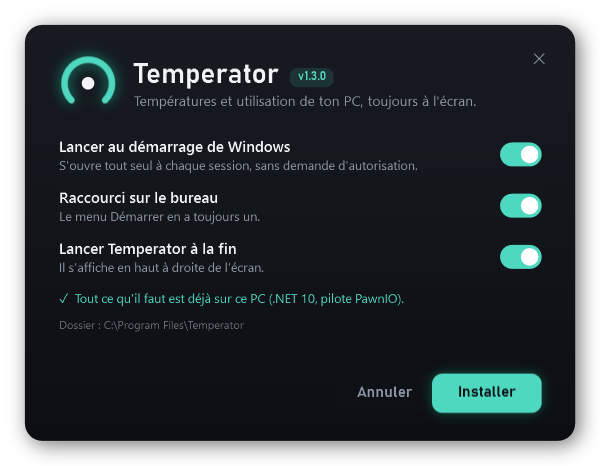
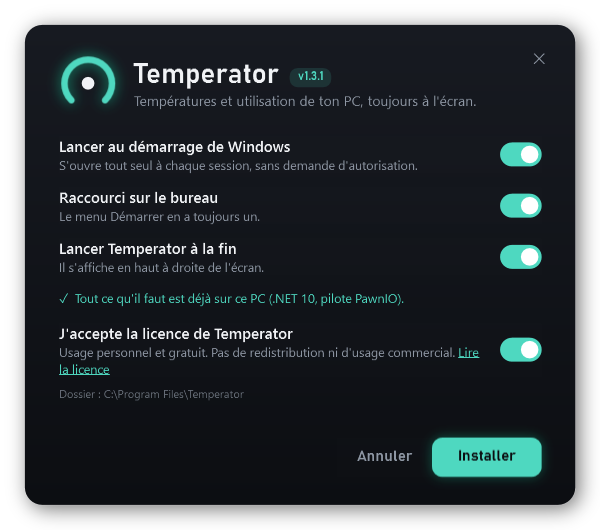
Ask for license acceptance in the installer (1.3.1)
- Installer: "J'accepte la licence" switch; Installer stays disabled until
  it is on; "Lire la licence" shows the full text inside the installer
  (embedded LICENSE, reflowed for display); silent install implies acceptance
- Widget menu: "Licence et conditions d'utilisation" opens the installed
  LICENSE (or the one on GitHub)
- README and installer screenshot updated; version 1.3.1

diff --git a/src/Setup/SetupWindow.xaml b/src/Setup/SetupWindow.xaml
@@ -44,7 +44,26 @@
             <ControlTemplate.Triggers>
               <Trigger Property="IsMouseOver" Value="True"><Setter TargetName="B" Property="Opacity" Value="0.88"/></Trigger>
               <Trigger Property="IsPressed" Value="True"><Setter TargetName="B" Property="RenderTransform"><Setter.Value><ScaleTransform ScaleX="0.96" ScaleY="0.96"/></Setter.Value></Setter></Trigger>
+              <Trigger Property="IsEnabled" Value="False"><Setter TargetName="B" Property="Opacity" Value="0.35"/><Setter Property="Cursor" Value="Arrow"/></Trigger>
             </ControlTemplate.Triggers>
+          </ControlTemplate>
+        </Setter.Value>
+      </Setter>
+    </Style>
+
+    <!-- barre de défilement fine (texte de la licence) -->
+    <Style x:Key="ThinThumb" TargetType="Thumb">
+      <Setter Property="OverridesDefaultStyle" Value="True"/>
+      <Setter Property="Template"><Setter.Value><ControlTemplate TargetType="Thumb"><Border CornerRadius="3" Background="#40F1F3F6"/></ControlTemplate></Setter.Value></Setter>
+    </Style>
+    <Style TargetType="ScrollBar">
+      <Setter Property="OverridesDefaultStyle" Value="True"/>
+      <Setter Property="Width" Value="6"/>
+      <Setter Property="MinWidth" Value="6"/>
+      <Setter Property="Template">
+        <Setter.Value>
+          <ControlTemplate TargetType="ScrollBar">
+            <Track x:Name="PART_Track" IsDirectionReversed="True"><Track.Thumb><Thumb Style="{StaticResource ThinThumb}"/></Track.Thumb></Track>
           </ControlTemplate>
         </Setter.Value>
       </Setter>
@@ -150,8 +169,31 @@
             </DockPanel>
           </StackPanel>
           <TextBlock x:Name="AllGood" Text="✓  Tout ce qu'il faut est déjà sur ce PC (.NET 10, pilote PawnIO)." FontSize="12.5" Foreground="#4ED8C0" Margin="0,0,0,6"/>
+          <DockPanel x:Name="RowLicense" Style="{StaticResource Row}" Cursor="Hand" Margin="0,10,0,6">
+            <CheckBox x:Name="OptLicense" DockPanel.Dock="Right" Style="{StaticResource Toggle}" IsChecked="False" VerticalAlignment="Center"/>
+            <StackPanel Margin="0,0,16,0">
+              <TextBlock Style="{StaticResource Title}" Text="J'accepte la licence de Temperator"/>
+              <TextBlock Style="{StaticResource Sub}">
+                <Run Text="Usage personnel et gratuit. Pas de redistribution ni d'usage commercial."/>
+                <Run x:Name="LicenseLink" Text="Lire la licence" Foreground="#4ED8C0" TextDecorations="Underline" Cursor="Hand"/>
+              </TextBlock>
+            </StackPanel>
+          </DockPanel>
           <TextBlock x:Name="PathText" FontSize="11.5" Foreground="#8E97A4" Opacity="0.7" Margin="0,4,0,0"/>
         </StackPanel>
+      </DockPanel>
+
+      <!-- écran : texte de la licence -->
+      <DockPanel x:Name="PageLicense" Grid.Row="1" Visibility="Collapsed">
+        <DockPanel DockPanel.Dock="Bottom" LastChildFill="False" Margin="0,14,0,0">
+          <Button x:Name="BtnAccept" DockPanel.Dock="Right" Style="{StaticResource Primary}" Content="J'accepte"/>
+          <Button x:Name="BtnBack" DockPanel.Dock="Right" Style="{StaticResource Ghost}" Content="Retour"/>
+        </DockPanel>
+        <Border CornerRadius="10" Background="#0CFFFFFF" BorderBrush="#14FFFFFF" BorderThickness="1" Padding="14,10,6,10">
+          <ScrollViewer VerticalScrollBarVisibility="Auto" HorizontalScrollBarVisibility="Disabled" Padding="0,0,10,0">
+            <TextBlock x:Name="LicenseText" FontSize="12" Foreground="#C9CFD8" TextWrapping="Wrap"/>
+          </ScrollViewer>
+        </Border>
       </DockPanel>
 
       <!-- écran : progression -->

diff --git a/src/Setup/SetupWindow.xaml.cs b/src/Setup/SetupWindow.xaml.cs
@@ -1,5 +1,6 @@
 using System;
 using System.IO;
+using System.Reflection;
 using System.Threading.Tasks;
 using System.Windows;
 using System.Windows.Controls;
@@ -45,6 +46,16 @@ namespace TemperatorSetup
                 BtnGoUninstall.Visibility = Visibility.Visible;
             }
 
+            // la licence doit être acceptée avant d'installer
+            LicenseText.Text = ReadLicense();
+            BtnInstall.IsEnabled = false;
+            OptLicense.Checked += (_, _) => BtnInstall.IsEnabled = true;
+            OptLicense.Unchecked += (_, _) => BtnInstall.IsEnabled = false;
+            LicenseLink.MouseLeftButtonUp += (_, e) => { e.Handled = true; ShowPage(PageLicense); };   // le lien a son propre clic
+            RowLicense.MouseLeftButtonUp += (_, _) => OptLicense.IsChecked = OptLicense.IsChecked != true;
+            BtnBack.Click += (_, _) => ShowPage(PageOptions);
+            BtnAccept.Click += (_, _) => { OptLicense.IsChecked = true; ShowPage(PageOptions); };
+
             // un clic n'importe où sur la ligne bascule l'interrupteur
             RowAuto.MouseLeftButtonUp += (_, _) => OptAuto.IsChecked = OptAuto.IsChecked != true;
             RowDesk.MouseLeftButtonUp += (_, _) => OptDesk.IsChecked = OptDesk.IsChecked != true;
@@ -71,6 +82,40 @@ namespace TemperatorSetup
             if (uninstall) ShowUninstallConfirm();
         }
 
+        static string ReadLicense()
+        {
+            using (var s = Assembly.GetExecutingAssembly().GetManifestResourceStream("LICENSE.txt"))
+            {
+                if (s == null) return "Licence : https://github.com/Buntasam/Temperator/blob/main/LICENSE";
+                using (var r = new StreamReader(s)) return Reflow(r.ReadToEnd());
+            }
+        }
+
+        /// <summary>Le fichier est coupé à ~90 caractères : on recolle les paragraphes pour l'affichage.</summary>
+        static string Reflow(string text)
+        {
+            var sb = new System.Text.StringBuilder();
+            bool blank = true;
+            foreach (string raw in text.Replace("\r\n", "\n").Split('\n'))
+            {
+                string line = raw.Trim();
+                if (line.Length == 0)
+                {
+                    if (!blank) sb.Append("\n\n");
+                    blank = true;
+                    continue;
+                }
+                bool item = System.Text.RegularExpressions.Regex.IsMatch(line, @"^[a-z]\.\s");
+                bool start = blank || item || line.StartsWith("---") || line.StartsWith("Copyright");
+                if (!start) sb.Append(' ');
+                else if (!blank) sb.Append('\n');
+                if (item) sb.Append("    ");
+                sb.Append(line);
+                blank = false;
+            }
+            return sb.ToString().TrimEnd();
+        }
+
         void ApplyMissing(bool runtime, bool pawn)
         {
             int n = (runtime ? 1 : 0) + (pawn ? 1 : 0);
@@ -78,7 +123,7 @@ namespace TemperatorSetup
             AllGood.Visibility = n > 0 ? Visibility.Collapsed : Visibility.Visible;
             RowDotNet.Visibility = runtime ? Visibility.Visible : Visibility.Collapsed;
             RowPawn.Visibility = pawn ? Visibility.Visible : Visibility.Collapsed;
-            Height = 466 + (n > 0 ? 30 + 60 * n : 0);
+            Height = 530 + (n > 0 ? 30 + 60 * n : 0);
         }
 
         // ------------------------------------------------------------------ écrans
@@ -107,7 +152,7 @@ namespace TemperatorSetup
 
         void ShowPage(FrameworkElement page)
         {
-            foreach (var p in new FrameworkElement[] { PageOptions, PageProgress, PageMessage })
+            foreach (var p in new FrameworkElement[] { PageOptions, PageLicense, PageProgress, PageMessage })
                 p.Visibility = p == page ? Visibility.Visible : Visibility.Collapsed;
             page.BeginAnimation(OpacityProperty, new DoubleAnimation(0, 1, TimeSpan.FromMilliseconds(220)));
         }
@@ -197,7 +242,7 @@ namespace TemperatorSetup
                 Card.Measure(new Size(Width, Height));
                 Card.Arrange(new Rect(0, 0, Width, Height));
                 Card.UpdateLayout();
-                foreach (var p in new UIElement[] { PageOptions, PageProgress, PageMessage })
+                foreach (var p in new UIElement[] { PageOptions, PageLicense, PageProgress, PageMessage })
                 {
                     p.BeginAnimation(OpacityProperty, null);
                     p.Opacity = 1;
@@ -210,6 +255,11 @@ namespace TemperatorSetup
             }
 
             Snap("1-options.png");
+            OptLicense.IsChecked = true;
+            Snap("1a-options-licence-acceptee.png");
+            ShowPage(PageLicense);
+            Snap("1c-licence.png");
+            ShowPage(PageOptions);
             ApplyMissing(true, true);
             Snap("1b-options-pc-sans-dotnet-ni-pawnio.png");
             ApplyMissing(false, false);

diff --git a/src/Temperator/App.xaml.cs b/src/Temperator/App.xaml.cs
@@ -262,6 +262,7 @@ public partial class App : Application
         updates.Items.Add(Item("Rechercher maintenant", () => _ = updater.Check(manual: true)));
         updates.Items.Add(new MenuItem { Header = $"Version installée : {Version}", IsEnabled = false });
         m.Items.Add(updates);
+        m.Items.Add(Item("Licence et conditions d'utilisation", OpenLicense));
         m.Items.Add(Item(widget.IsVisible ? "Masquer le widget" : "Afficher le widget", ToggleWidget));
         m.Items.Add(Item("Quitter Temperator", Quit));
         return m;
@@ -307,6 +308,18 @@ public partial class App : Application
         }
         row.Children.Add(slider);
         return new MenuItem { Header = row, StaysOpenOnClick = true };
+    }
+
+    /// <summary>La licence installée avec l'application (Bloc-notes), sinon celle du dépôt GitHub.</summary>
+    static void OpenLicense()
+    {
+        try
+        {
+            string file = Path.Combine(AppContext.BaseDirectory, "LICENSE");
+            if (File.Exists(file)) System.Diagnostics.Process.Start("notepad.exe", "\"" + file + "\"");
+            else System.Diagnostics.Process.Start(new System.Diagnostics.ProcessStartInfo($"https://github.com/{Updater.Repo}/blob/main/LICENSE") { UseShellExecute = true });
+        }
+        catch (Exception ex) { Log(ex); }
     }
 
     static MenuItem Item(string text, Action action)

diff --git a/README.md b/README.md
@@ -75,7 +75,7 @@ Les températures et l'utilisation de ton PC, toujours à l'écran : un petit wi
 
 1. Télécharge **`Temperator-Setup-x.y.z.exe`** depuis la page [Releases](https://github.com/Buntasam/Temperator/releases/latest).
 2. Lance-le et accepte la demande d'administrateur.
-3. Choisis tes options, puis clique sur **Installer**.
+3. Choisis tes options, accepte la [licence](LICENSE), puis clique sur **Installer**.
 
 <p align="center"><img src="docs/installeur.png" width="460" alt="L'installeur"></p>
 
@@ -95,6 +95,7 @@ L'installeur ajoute aussi ce qui manque :
 
 **Installation silencieuse** : `Temperator-Setup-x.y.z.exe /S`. Options possibles : `/noautostart /nodesktop /nolaunch`
 (et `/uninstall /S` pour désinstaller sans fenêtre). Le journal est écrit dans `%TEMP%\temperator-setup.log`.
+Installer en silencieux revient à accepter la [licence](LICENSE).
 
 L'installeur est un programme C# (.NET Framework 4.8, déjà présent sur Windows 10 et 11) : aucun script PowerShell.
 
